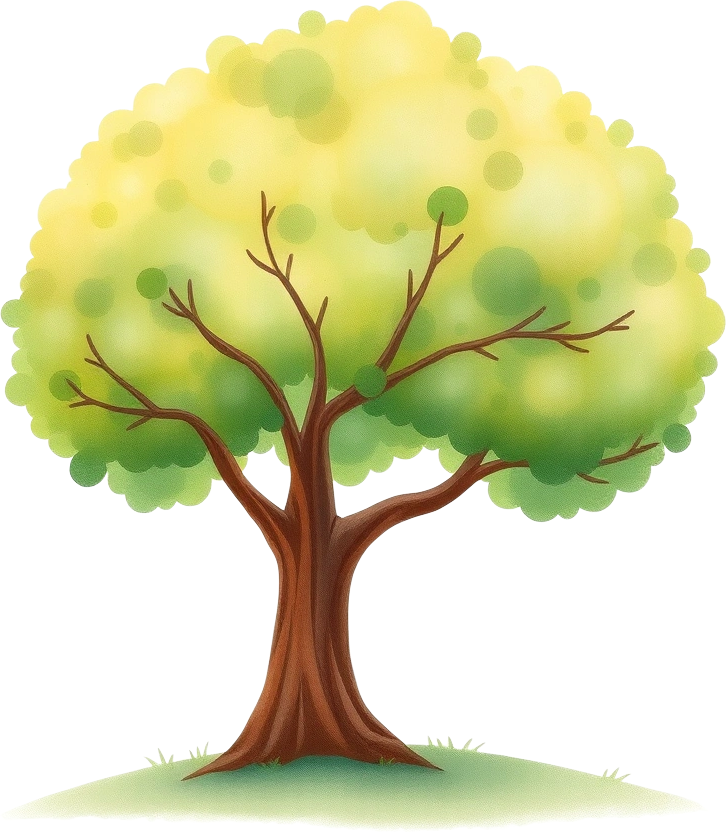
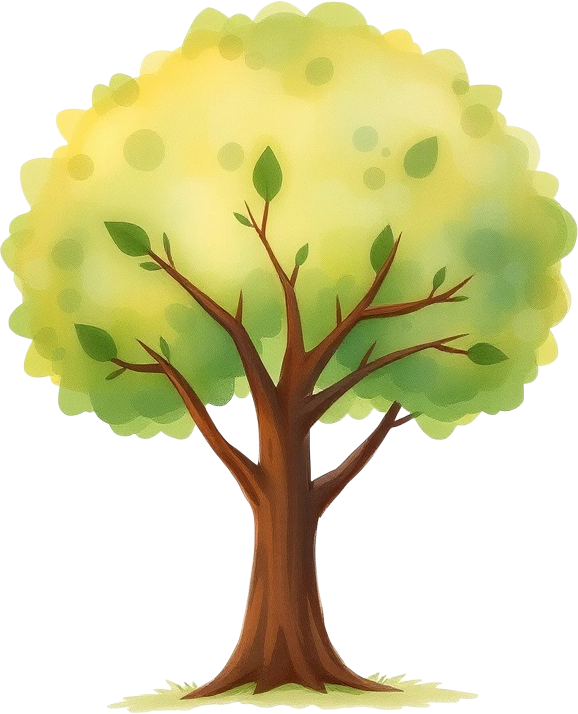
Pop-up Book: all 97 painted pictures, papers and page backgrounds
Each was looked at; about forty cut-outs were painted again. The script now
rubs out anything detached from the subject (strips of grass, stray
lettering), takes a --seed, and its prompts no longer name what is unwanted,
which was putting it in.

Claude-Session: https://claude.ai/code/session_01GvXyMRwQWF1DNMd7nqXDP6

diff --git a/worlds/popup/README.md b/worlds/popup/README.md
@@ -104,19 +104,26 @@ putting a file in `pictures/` (see the README there). The book loads whatever
 is there and keeps the drawing for the rest. Painted backgrounds are printed
 on the page sheets.
 
-**None have been made yet.** To make them:
+All 97 have been made (49 pictures, 8 papers, 40 page backgrounds) with
+`scripts/illustrate.mjs`, and each was looked at. To make one again:
 
 1. The Replicate token has to be in the session's environment as
    `REPLICATE_API_TOKEN`. It must never be committed or pasted into a chat.
-2. `node scripts/illustrate.mjs --list` shows the 97 pictures it would make
-   and the prompt for each, and makes nothing.
-3. Check the two model names at the top of the script against replicate.com:
-   it was written without a token to try them with.
-4. Try a few first (`node scripts/illustrate.mjs pig wolf tree`), look at
-   them in the book, and adjust the style line in the script before making
-   the rest. Then `node scripts/illustrate.mjs`.
-5. Look at every picture before committing. Delete and re-run any that is
-   wrong; a file that exists is left alone.
+2. Delete its file, then `node scripts/illustrate.mjs wolf`. A file that
+   exists is left alone. `--seed=12` paints it differently; several pictures
+   here are from a seed other than the script's own, chosen from a few tries.
+3. `node scripts/illustrate.mjs --list` shows what is missing and the prompt
+   for each, and makes nothing.
+4. Look at every picture before committing it.
+
+What the script does to a picture after it is painted: the background is
+taken away, anything not touching the thing itself is rubbed out (the painter
+likes to add a strip of grass underneath), and it is cut down to the thing,
+so that it stands on the fold at full size. A page background is cropped to
+26 by 19 and faded towards the page's cream, so that what pops up stands out.
+
+The painter sometimes refuses a harmless prompt ("User Input Error"); another
+seed or other words get past it.
 
 The fold checks still treat each picture as its whole square, and the
 stories still name pictures by the same ids, so nothing else changes.
